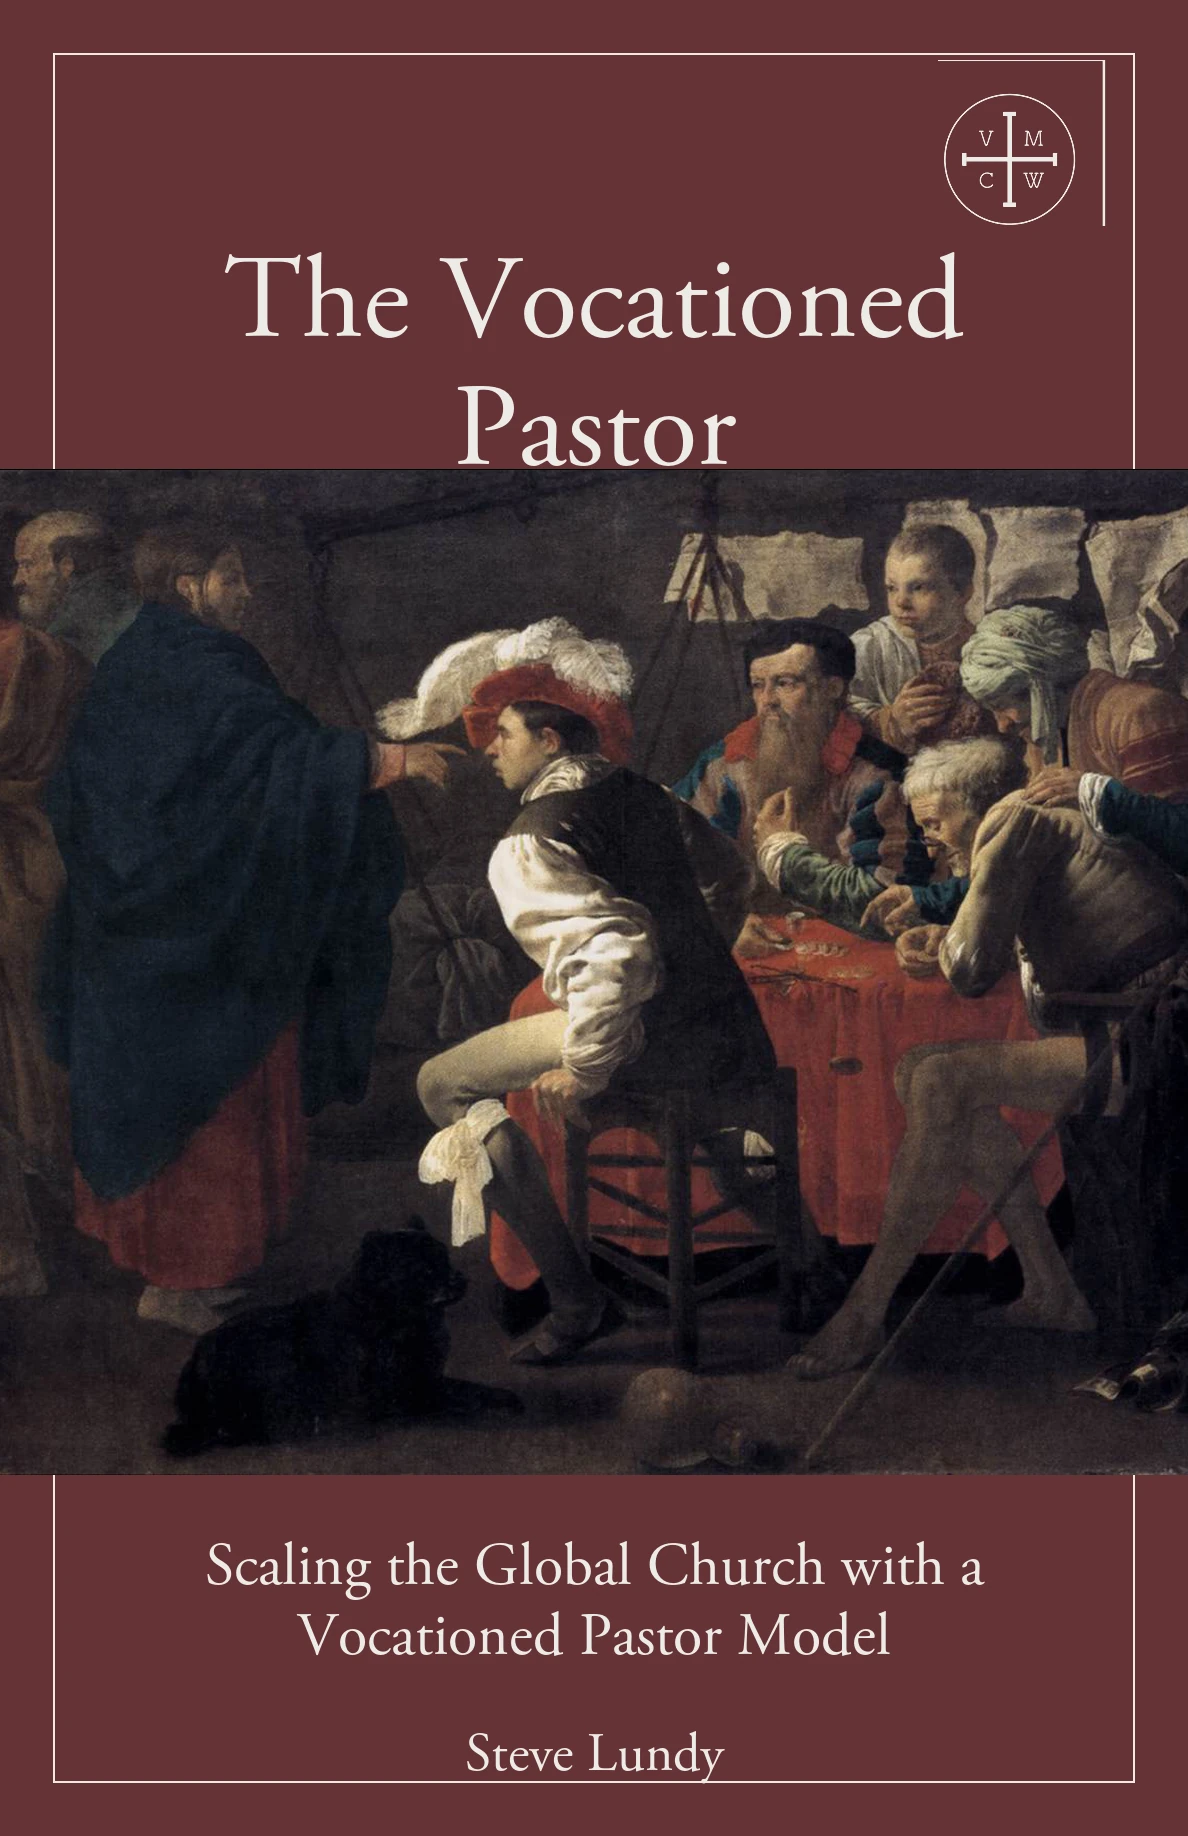
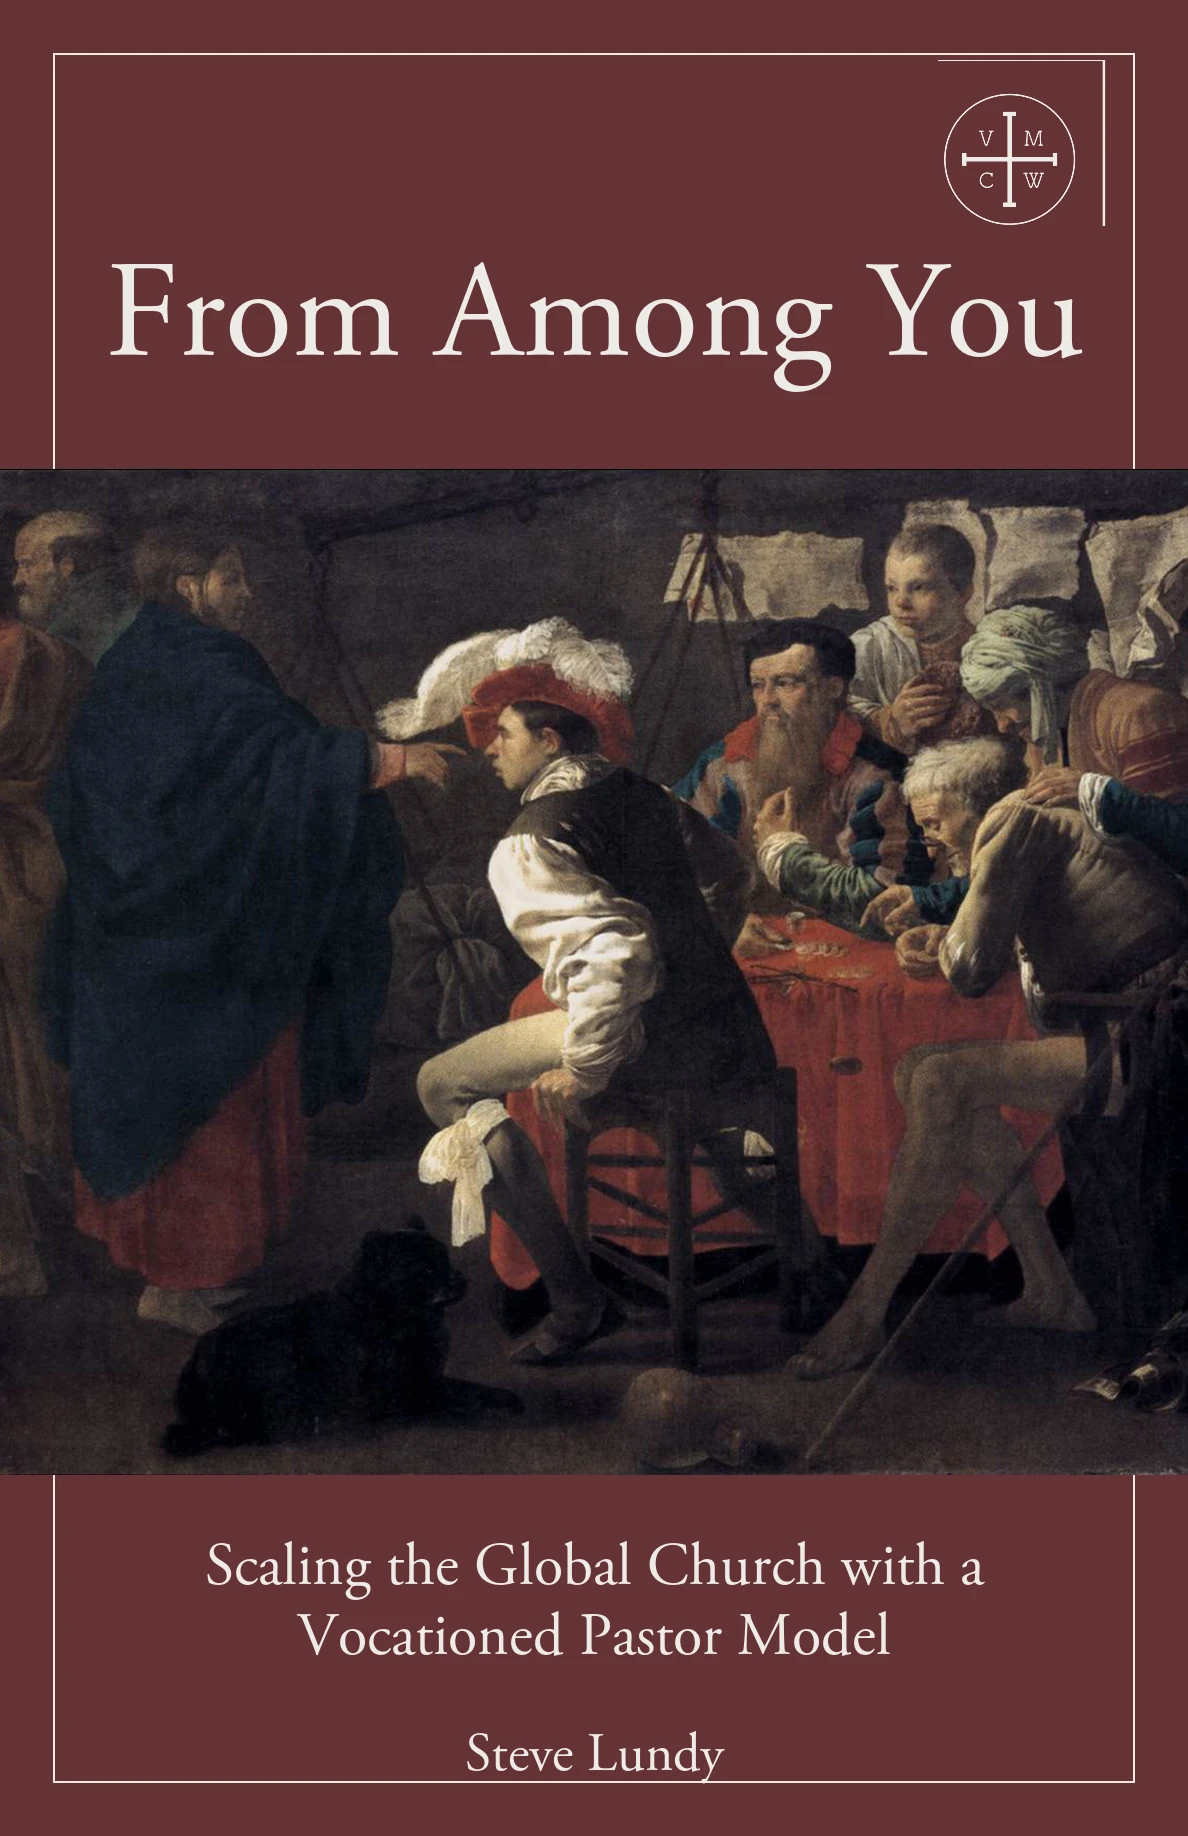
Book retitled to "From Among You" (Acts 6:3; 20:30)
Title changed from "The Vocationed Pastor" to "From Among You" (leaders raised
from within the congregation). Updated meta.json, front-matter H2, and
re-rendered the cover with the new title. Subtitle unchanged. New slug:
/vade-mecum/from-among-you.

Claude-Session: https://claude.ai/code/session_01PZzpXqQ2g1TuR8NodW7cmN

Changed region(s): [[0.3737, 0.1242, 0.9032, 0.2794], [0.0934, 0.1242, 0.3426, 0.2173]]

diff --git a/series/Vade Mecum/The Vocationed Pastor/sessions/01-Front-Matter.md b/series/Vade Mecum/The Vocationed Pastor/sessions/01-Front-Matter.md
@@ -1,6 +1,6 @@
 # Front Matter
 
-## The Vocationed Pastor
+## From Among You
 
 _Scaling the Global Church with a Vocationed Pastor Model_
 
